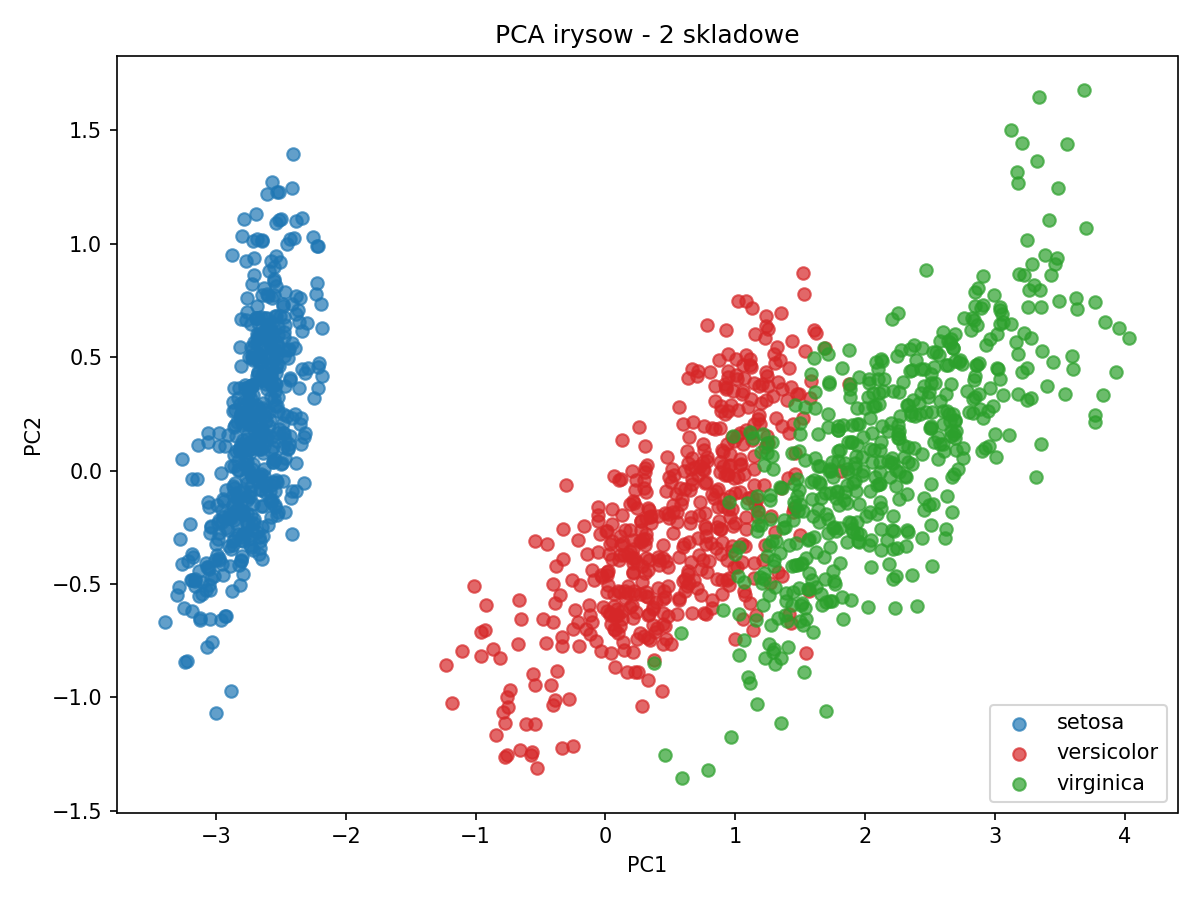
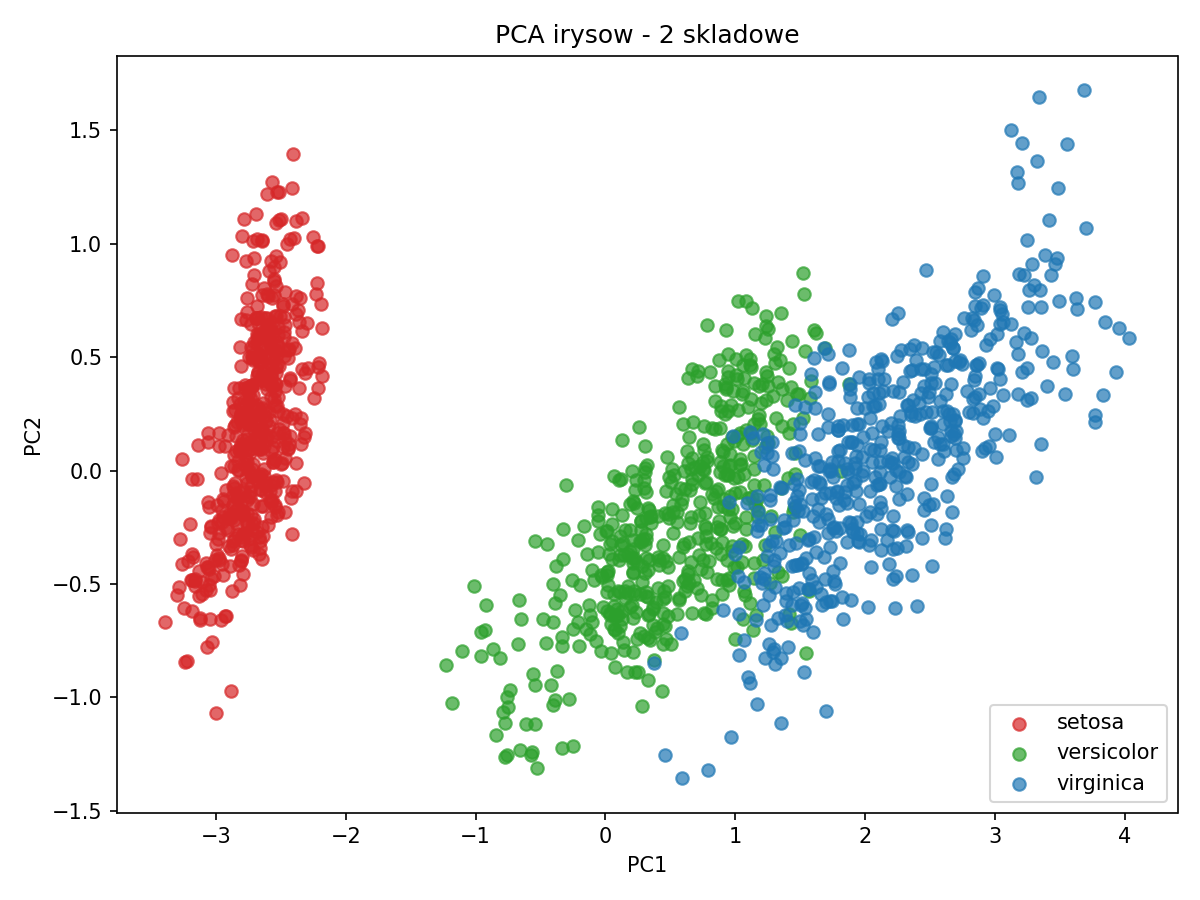
lab02: clean the code

diff --git a/Lab02/ex2_PCA.py b/Lab02/ex2_PCA.py
@@ -7,22 +7,18 @@ from sklearn.decomposition import PCA
 matplotlib.use('Agg') # generowanie wykresow bez wyswietlania ich na ekranie
 import matplotlib.pyplot as plt
 
-
-# Przygotowanie sciezek do plikow wejsciowych i wyjsciowych.
-base_dir = os.path.dirname(__file__) # sciezka do katalogu gdzie jest skrypt
+base_dir = os.path.dirname(__file__)
 csv_path = os.path.join(base_dir, 'iris_big.csv')
 output_2d_path = os.path.join(base_dir, 'iris_pca_2d.csv')
 output_3d_path = os.path.join(base_dir, 'iris_pca_3d.csv')
 plot_2d_path = os.path.join(base_dir, 'iris_pca_2d.png')
 plot_3d_path = os.path.join(base_dir, 'iris_pca_3d.png')
 
-# Wczytanie calej tabeli z pliku CSV.
 df = pd.read_csv(csv_path)
 
 species_column = 'target_name'
 feature_columns = []
 
-# Zostawiamy tylko kolumny numeryczne, bo PCA dziala na liczbach.
 for column in df.columns:
     if column != species_column:
         feature_columns.append(column)
@@ -30,7 +26,6 @@ for column in df.columns:
 X = df[feature_columns]
 y = df[species_column]
 
-# Najpierw liczymy PCA dla wszystkich 4 skladowych, aby sprawdzic wariancje.
 pca_full = PCA(n_components=4)
 pca_full.fit(X)
 
@@ -40,7 +35,6 @@ variance_3d = explained_variance[:3].sum()
 loss_2d = 1 - variance_2d
 loss_3d = 1 - variance_3d
 
-# Wypisanie, ile informacji daje kazda skladowa i ile zostaje po redukcji.
 print('wariancja_wyjasniona_przez_kolejne_skladowe:')
 for index, value in enumerate(explained_variance, start=1):
 	print(f'PC{index}: {value:.6f}')
@@ -55,28 +49,28 @@ print(f'po_usunieciu_1_kolumny: {loss_3d:.6f}')
 
 print('\nwniosek: mozna usunac 2 kolumny, bo zostaje ponad 95% wariancji.')
 
-# Tworzymy nowa baze 2D z kolumnami PC1 i PC2.
+# nowa baza 2D z kolumnami PC1 i PC2
 pca_2d = PCA(n_components=2)
 data_2d = pca_2d.fit_transform(X)
 df_2d = pd.DataFrame(data_2d, columns=['PC1', 'PC2'])
 df_2d[species_column] = y
 df_2d.to_csv(output_2d_path, index=False)
 
-# Tworzymy tez wersje 3D z kolumnami PC1, PC2 i PC3.
+# nowa baza 3D z kolumnami PC1, PC2 i PC3
 pca_3d = PCA(n_components=3)
 data_3d = pca_3d.fit_transform(X)
 df_3d = pd.DataFrame(data_3d, columns=['PC1', 'PC2', 'PC3'])
 df_3d[species_column] = y
 df_3d.to_csv(output_3d_path, index=False)
 
-# Kolory punktow dla poszczegolnych gatunkow na wykresach.
+# kolory punktow dla poszczegolnych gatunkow na wykresach
 colors = {
-	'setosa': 'tab:blue',
-	'versicolor': 'tab:red',
-	'virginica': 'tab:green',
+	'setosa': 'tab:red',
+	'versicolor': 'tab:green',
+	'virginica': 'tab:blue',
 }
 
-# Wykres 2D po redukcji do dwoch skladowych.
+# wykres 2D po redukcji do dwoch skladowych.
 plt.figure(figsize=(8, 6))
 for species in y.unique():
 	mask = y == species
@@ -96,7 +90,7 @@ plt.tight_layout()
 plt.savefig(plot_2d_path, dpi=150)
 plt.close()
 
-# Wykres 3D po redukcji do trzech skladowych.
+# wykres 3D po redukcji do trzech skladowych.
 fig = plt.figure(figsize=(9, 7))
 ax = fig.add_subplot(111, projection='3d')
 

diff --git a/Lab02/ex3_normalizacja.py b/Lab02/ex3_normalizacja.py
@@ -6,13 +6,10 @@ import pandas as pd
 matplotlib.use('Agg')
 import matplotlib.pyplot as plt
 
-
-# Przygotowanie sciezek do danych i pliku z wykresami.
 base_dir = os.path.dirname(__file__)
 csv_path = os.path.join(base_dir, 'iris_big.csv')
 plot_path = os.path.join(base_dir, 'iris_normalizacja.png')
 
-# Wczytanie danych i wybor dwoch kolumn.
 df = pd.read_csv(csv_path)
 x_column = 'sepal length (cm)'
 y_column = 'sepal width (cm)'
